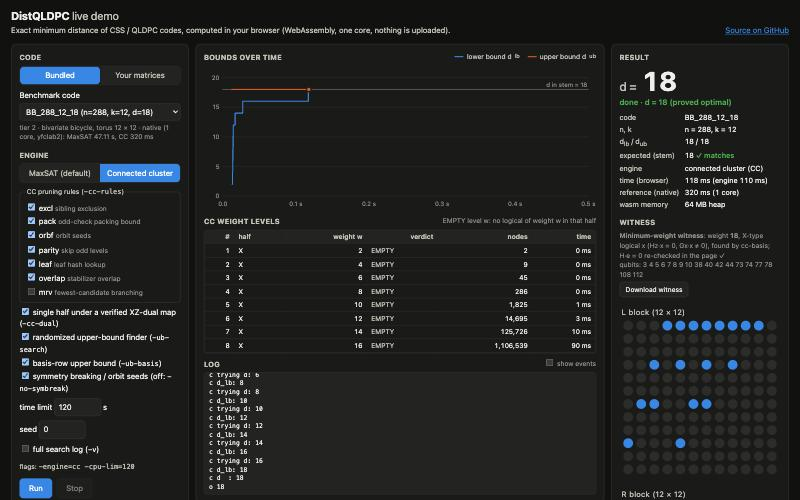
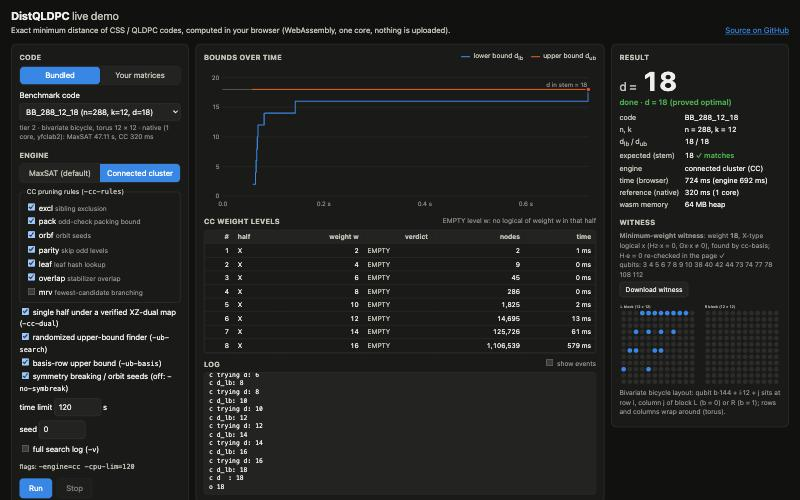
web: refresh BB_288 screenshot (built from 318b974), README note on first-run tier-up

diff --git a/web/README.md b/web/README.md
@@ -90,7 +90,9 @@ needed (single-threaded build).
 timing. Node runs include about 0.6 s of start-up.) Also run in the browser: BB_288_12_18 CC (d = 18, 0.12 s),
 BB_144_12_12 CC (12), TN_144_2_13 CC (13, 0.78 s), BB_72_12_6 pasted with Gx / Gz computed (6); Stop during
 LP_714_100_16 MaxSAT after 4 s (bounds 10 / 16 kept, worker gone); TN_144_2_13 MaxSAT with a 2 s limit (TIMEOUT,
-bounds 9 / 13, the CLI's summary text). Screenshots: `web/screenshots/`.
+bounds 9 / 13, the CLI's summary text). Screenshots: `web/screenshots/`. The first run after a new `dq.wasm` is
+slower while V8 still executes baseline (Liftoff) code: BB_288_12_18 CC took 0.69 s of engine time on the first
+run after the rebuild and 0.11 s once the optimized code was cached.
 
 ## Deploying later (needs the PI)
 
